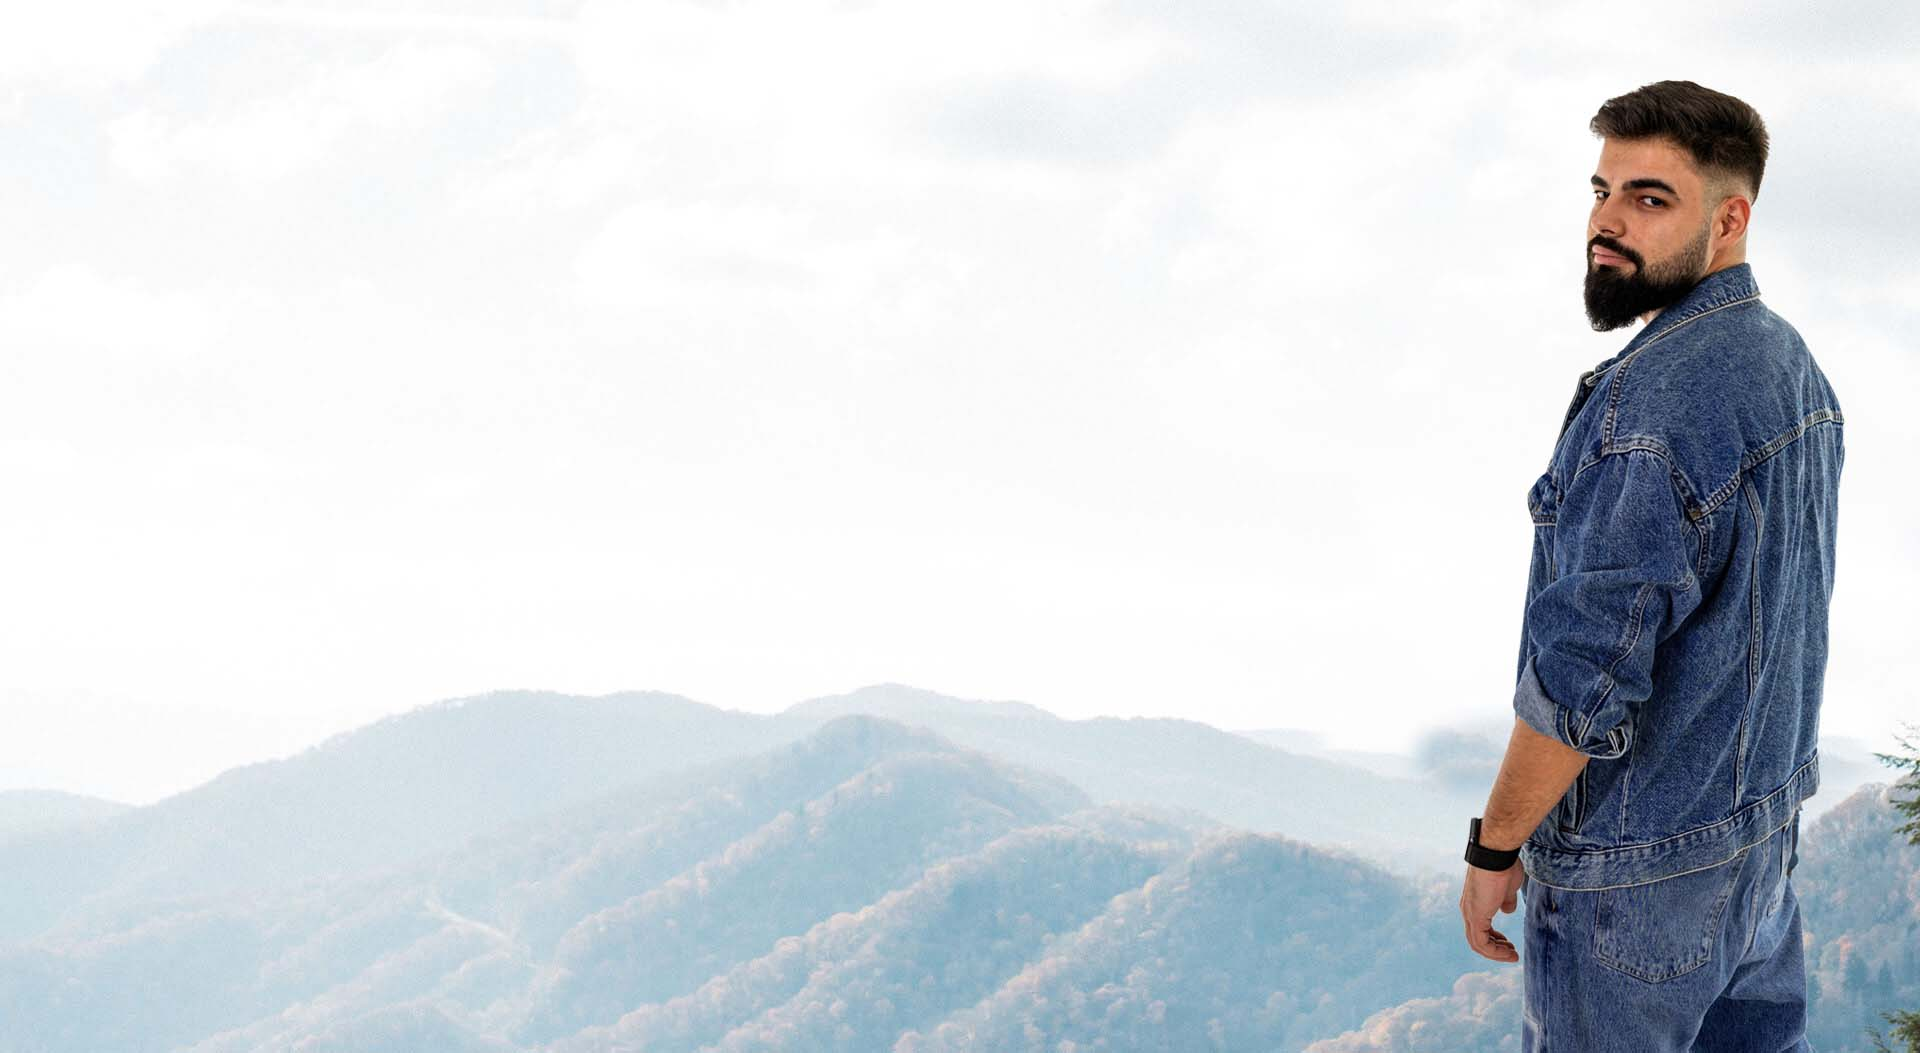
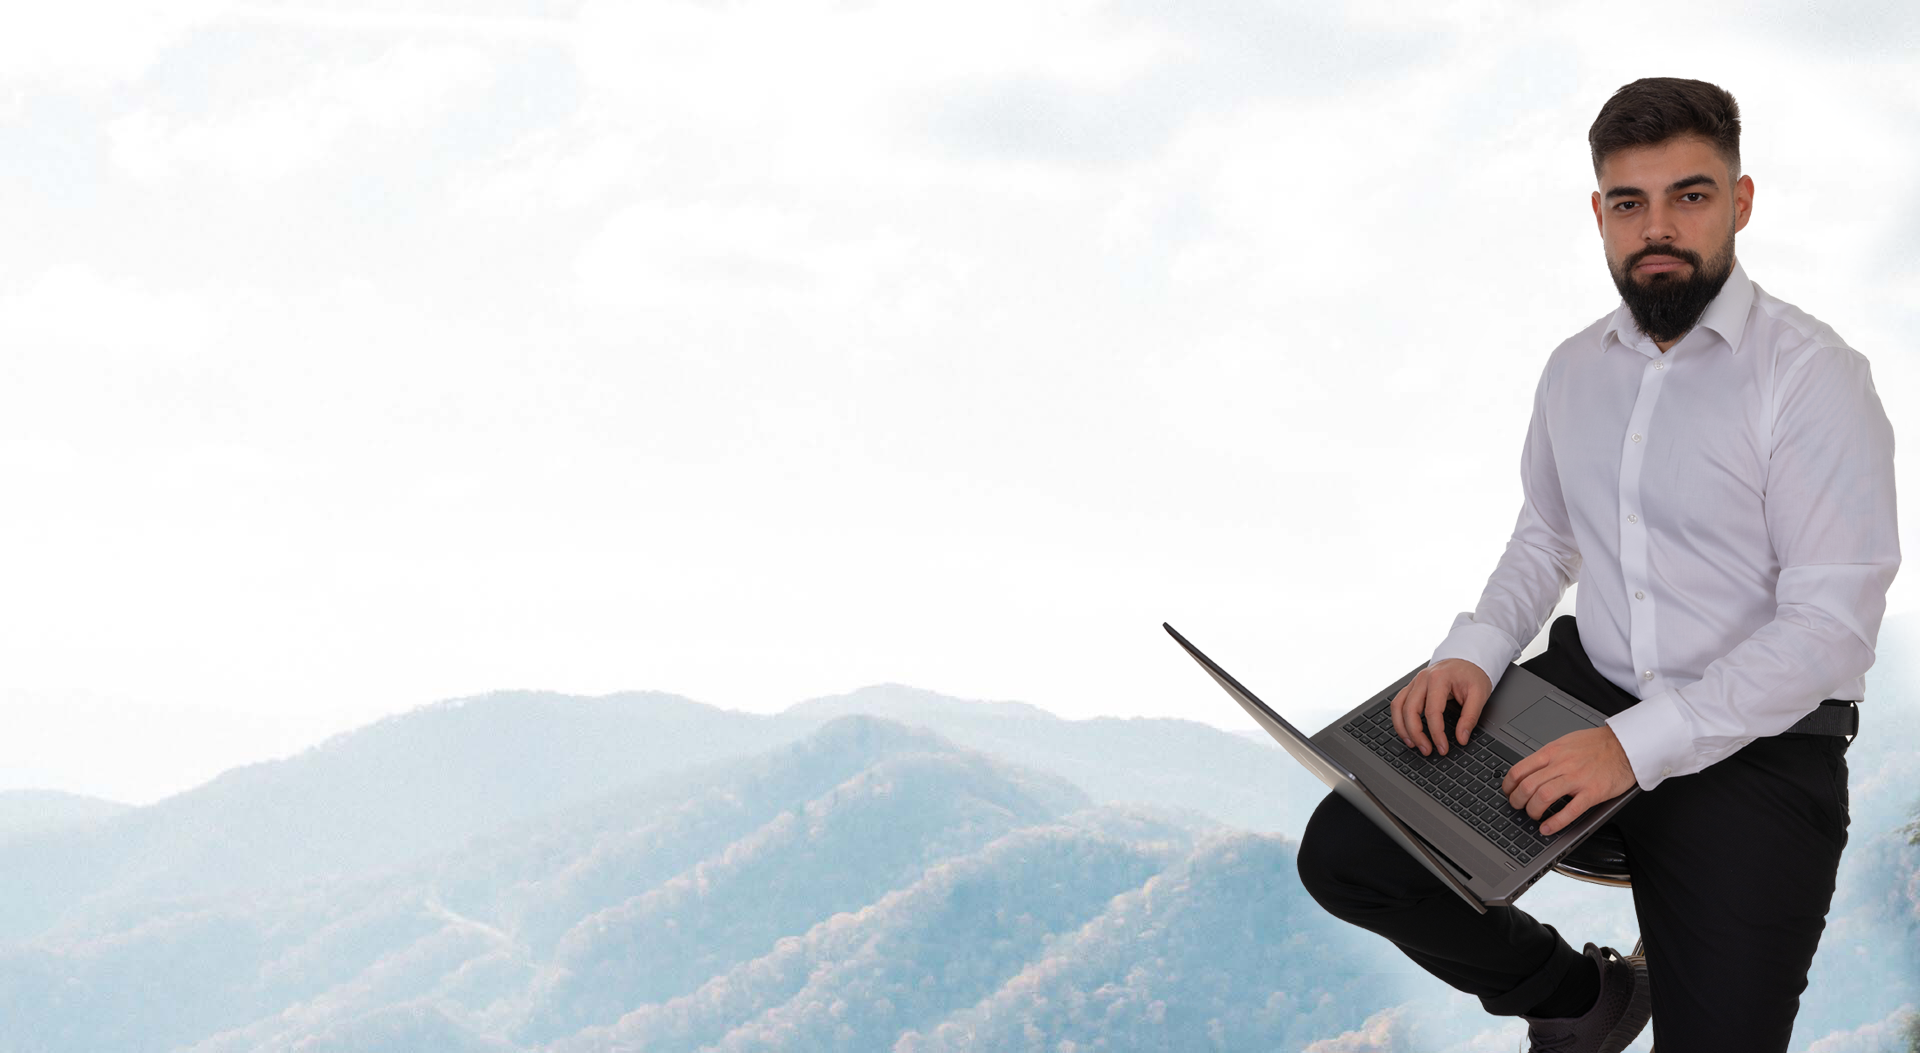
added animations

Changed region(s): [[0.5938, 0.0608, 1.0, 1.0]]

diff --git a/index.html b/index.html
@@ -60,7 +60,7 @@
   <section id="hero" class="d-flex flex-column justify-content-center">
     <div class="container" data-aos="zoom-in" data-aos-delay="100">
       <h1>Alex Dincă</h1>
-      <p><span class="typed" data-typed-items="IT Business Consultant, Product and Project Manager, Photographer and Videographer, Adventure Tour Guide"></span></p>
+      <p><span class="typed" data-typed-items="IT Business Consultant, Photo and Video, Adventure Guide"></span></p>
       <div class="social-links">
         <a href="https://www.linkedin.com/in/deneka/" class="linkedin"><i class="bx bxl-linkedin"></i></a>
         <a href="https://www.instagram.com/dnkalex" class="instagram"><i class="bx bxl-instagram"></i></a>
@@ -792,9 +792,43 @@
   <script src="assets/vendor/typed.js/typed.min.js"></script>
   <script src="assets/vendor/waypoints/noframework.waypoints.js"></script>
   <script src="assets/vendor/php-email-form/validate.js"></script>
+  <script src="assets/vendor/jquery-3.6.1.min.js"></script>
 
   <!-- Template Main JS File -->
   <script src="assets/js/main.js"></script>
+  <script type="text/javascript">
+    window.setInterval(function () {
+        var url = getCurrent();
+        //start animation
+        $('#hero').delay(1000).fadeTo(1000, 0.2, function () {
+          $(this).css('background', 'url(' + url + ')');          
+          $(this).css('background-size', 'cover');
+          $(this).css('background-repeat', 'no-repeat');
+          $(this).css('background-position-x', 'right');
+          $(this).css('background-position-y', 'top');
+        }).fadeTo('slow', 1);
+      }, 5000);
+
+      // We start with index of 1 because we want to skip the first image, 
+      // Else we would be replacing it with the same image.
+      var index = 1;
+      var arrayOfPartenaires = [
+        "assets/img/hero-bg.jpg",
+        "assets/img/hero-bg2.jpg",
+        "assets/img/hero-bg3.jpg",        
+      ];
+
+      function getCurrent() {
+        // We check if the index is higher than the ammount in the array.
+        // If thats true set 0 (beginning of array)
+        if (index > arrayOfPartenaires.length - 1) {
+          index = 0;
+        }
+        var returnValue = index;
+        index++;
+        return arrayOfPartenaires[returnValue];
+      }
+  </script>
 
 </body>
 

diff --git a/assets/css/style.css b/assets/css/style.css
@@ -284,7 +284,9 @@ h6 {
 #hero {
   width: 100%;
   height: 100vh;
-  background: url("../img/hero-bg.jpg") top right no-repeat;
+  background: url("../img/hero-bg.jpg");
+  background-position: top right;
+  background-repeat: no-repeat;
   background-size: cover;
   position: relative;
 }
